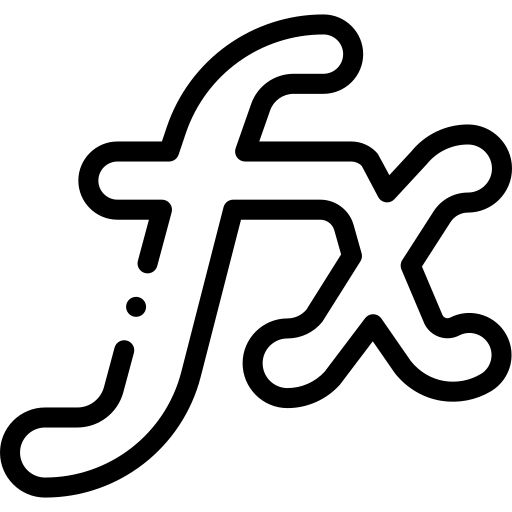
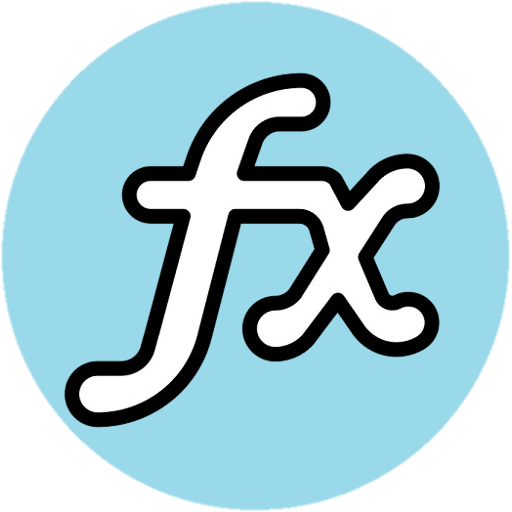
v0.0.2

diff --git a/src/extension.ts b/src/extension.ts
@@ -5,8 +5,8 @@ export function activate(context: vscode.ExtensionContext) {
 
 	// Register commands
 	const showFunctionList = vscode.commands.registerCommand('sidebar-function-list.showFunctionList', () => {
-        vscode.window.showInformationMessage('Show Function List command executed');
 		moveViewToSecondarySideBar();
+		vscode.window.showInformationMessage('Show Function List command executed');
     });
 
 	const navigateToFunction = vscode.commands.registerCommand('sidebar-function-list.navigateToFunction', (range: vscode.Range) => {

diff --git a/README.md b/README.md
@@ -28,6 +28,13 @@ Developed by Boniato, you can report issues at the [Github Repository](https://g
 
 ## Changelog
 
+### 0.0.2
+
+- Changed minimum version to 1.64.0
+- Added marketplace icon
+- Function list icon changed
+- Command 'Show Function List' result in error fixed
+
 ### 0.0.1
 
 - Initial release

diff --git a/CHANGELOG.md b/CHANGELOG.md
@@ -1,5 +1,12 @@
 # Changelog
 
+### 0.0.2
+
+- Changed minimum version to 1.64.0
+- Added marketplace icon
+- Function list icon changed
+- Command 'Show Function List' result in error fixed
+
 ### 0.0.1
 
 - Initial release
